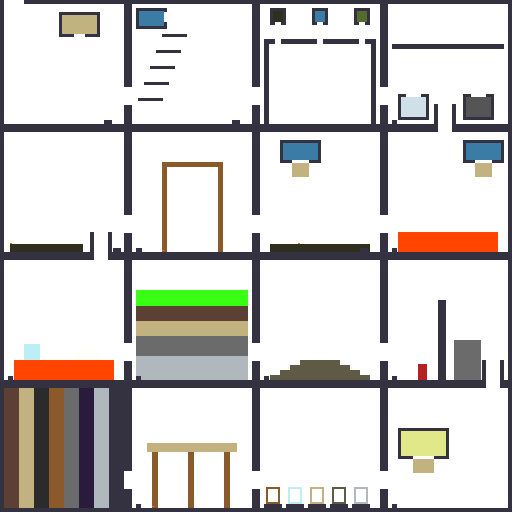
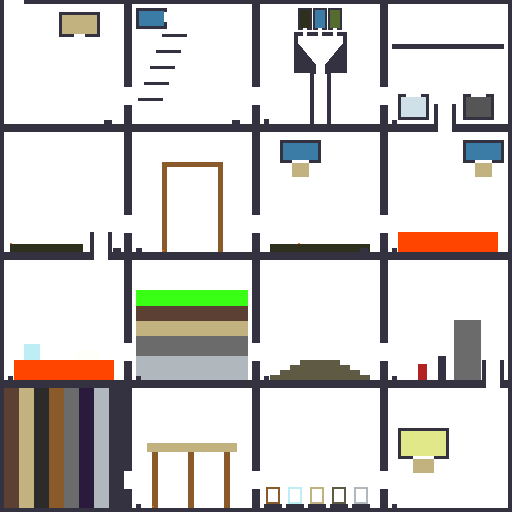
sandbox: a lighter liquid rises through a heavier one
A liquid only ever tried to sink, which is not enough to make two
liquids layer. The scan runs bottom up, so of a heavy cell resting on
a lighter one the cell below is stepped first, spreads sideways inside
its own pool, and marks itself moved. The heavy cell above is refused
for that tick and for every tick after it, because nothing about the
arrangement has changed.

Measured in the density room: oil, water and toxic sludge poured into
one tank held 27 heavy cells resting on lighter ones, unchanged from
tick 800 to tick 12000. With the rise rule the same count reaches zero
by tick 800 and the layers separate further.

Rise refuses a target of the same density, so a settled pool of one
liquid does not swap up and down for ever and its chunk still sleeps.

The reach of a blast is now its power rather than a quarter of it. A
ray spends at least 1 energy on every cell it crosses, so a blast of
power p can never reach further than p cells anyway, and the smaller
radius stopped rays that still had energy to spend: a block of tnt
cleared the air around itself and left a rock wall 32 cells away
untouched. One grain of gunpowder is a small pop now, and a pile is
many of them.

Three rooms of the gallery were built wrong and the pictures said so.
The blast shadow pillar was taller than the tnt, so it shadowed the
whole rock field and the room read as a blast that never went off. The
density tank was 101 cells wide, so each liquid landed under its own
[…]

Changed region(s): [[0.5, 0.0, 0.75, 0.25], [0.8438, 0.5625, 0.9375, 0.7188]]

diff --git a/tools/seed_gallery.py b/tools/seed_gallery.py
@@ -359,11 +359,43 @@ def build_room_3(cv):
     one tall tank and settle in three layers by density (checked
     against data/materials.txt: Oil 0.85, Water 1.0, Toxic_Sludge 1.4)."""
     r = Room(cv, 3)
-    r.box(4, 35, 115, 119, BEDROCK)
-    r.box(9, 40, 110, 119, AIR)  # the one tall tank all three chutes feed
-    for lx0, fill in ((10, "Oil"), (52, "Water"), (94, "Toxic_Sludge")):
-        r.tank(lx0, 4, lx0 + 15, 20, fill, hole_side="bottom", hole_lo=lx0 + 5, hole_hi=lx0 + 10)
-        r.box(lx0 + 5, 21, lx0 + 10, 39, AIR)  # the chute down to the tank, through its lid
+
+    # Three taps, a funnel, and one narrow column.
+    #
+    # A wide tank shows nothing. Each liquid lands under its own chute,
+    # spreads only as far as it has to, and settles as three puddles
+    # side by side that never meet. Bringing them into one tank is not
+    # enough either: the step swaps a heavy cell with a lighter one
+    # below it, and never with one beside it, so a wide tank settles
+    # with no cell resting on anything lighter and still reads as a
+    # diagonal smear rather than as layers. The column is 13 cells
+    # across, which is too narrow for a diagonal to fit in, so the only
+    # arrangement left is the right one.
+    # The funnel and the column go down first. A chute drawn before
+    # them is painted over by their walls, and every tap is then sealed
+    # by a room that still looks right in a picture of it at rest.
+    r.box(34, 28, 86, 68, BEDROCK)
+    r.box(38, 32, 82, 62, AIR)
+
+    # The funnel floor slopes. A flat one does not funnel: a liquid
+    # spreads sideways only where the ground falls away beside it or
+    # more liquid presses from above, so a pool sitting on a flat floor
+    # beside a hole has no reason to move towards it and simply stays
+    # at the side of the room. A slope gives it the reason.
+    for lx in range(38, 56):
+        r.box(lx, 40 + (lx - 38) * 22 // 18, lx, 67, BEDROCK)
+    for lx in range(65, 83):
+        r.box(lx, 40 + (82 - lx) * 22 // 18, lx, 67, BEDROCK)
+
+    r.box(50, 66, 70, 119, BEDROCK)
+    r.box(54, 70, 66, 119, AIR)
+    r.box(56, 62, 64, 70, AIR)      # the throat, down into the column
+
+    for lx0, fill in ((38, "Oil"), (53, "Water"), (68, "Toxic_Sludge")):
+        r.tank(lx0, 4, lx0 + 13, 25, fill, wall=2, hole_side="bottom",
+               hole_lo=lx0 + 5, hole_hi=lx0 + 8)
+        r.box(lx0 + 5, 26, lx0 + 8, 31, AIR)  # the chute into the funnel
+
     r.plinth(4, w=5, h=5)
 
 
@@ -459,11 +491,14 @@ def build_room_12(cv):
     field are kept clear of it."""
     r = Room(cv, 12)
     r.box(30, 104, 38, 119, "Tnt")
-    r.box(50, 40, 57, 119, BEDROCK)  # the pillar: floor to well above the tnt.
-    # Open air over the top of it (the room's own ceiling is 40 cells up
-    # from here), so the wizard can still fly across the room; a ray
-    # steep enough to clear it would already have spent its radius.
-    r.box(66, 80, 92, 119, "Rock")   # the field: half in the pillar's shadow, half not
+    # The pillar stands 24 cells, not the whole height of the room. A
+    # pillar taller than the tnt shadows the field completely, and a
+    # field that is wholly in shadow shows nothing: the room reads as a
+    # blast that did not go off. Rays that graze the top of this one
+    # reach the upper face of the field, so the shadow lands as a
+    # diagonal across it and the lit rock beside it is gone.
+    r.box(50, 96, 57, 119, BEDROCK)
+    r.box(66, 60, 92, 119, "Rock")
     r.plinth(4, w=5, h=4)
 
 

diff --git a/docs/physics.md b/docs/physics.md
@@ -18,7 +18,7 @@ behaviour the game is known for.
 | What Noita does | What we do |
 | --- | --- |
 | Powder falls and piles | Already done |
-| Liquid falls, pools, and layers by density | Already done |
+| Liquid falls, pools, and layers by density | Falling and pooling were done. Layering was not: see "The rise rule" below |
 | Gas climbs and gathers under a ceiling | Already done |
 | Fire spreads along fuel and leaves smoke | Already done |
 | Wood burns for a time, then becomes ash | Data only: `burns_to` a burning material with a `lifetime` and a `decays_to` |
@@ -46,9 +46,17 @@ reader knows the gap is a decision and not an oversight.
   is local to the damage that caused it. The rung that adds it is a
   flood fill from the anchored cells of a chunk, run only where a
   chunk was cut.
-- **No pressure.** A pool settles into one body and holds its shape,
-  but it can keep a slope. Noita does not equalise across a U bend
-  either, so this is a match with the reference and not a debt.
+- **No pressure, and no sideways exchange between liquids.** A pool
+  settles into one body and holds its shape, but it can keep a slope.
+  Noita does not equalise across a U bend either, so that part is a
+  match with the reference and not a debt. The second half is a real
+  limit: a liquid swaps with a lighter one below it and never with one
+  beside it, so two liquids poured into a wide tank settle with no
+  cell resting on anything lighter and still read as a diagonal smear
+  rather than as layers. The density room is a narrow column for that
+  reason. The rung that would lift it is a sideways swap gated on
+  density, which has to be written so that a settled pool of one
+  liquid does not jitter for ever.
 - **No temperature field.** A number per cell for heat would cost as
   much memory as the cells and buy behaviour that the reaction table
   already gives. Fire, melting, freezing and boiling are all pairs of
@@ -92,7 +100,7 @@ room shows.
 | `Ice` | Solid | 0.92 | 2 | melts near heat |
 | `Snow` | Powder | 0.4 | 1 | melts faster |
 | `Obsidian` | Solid | 2.6 | 9 | what water leaves in lava |
-| `Gunpowder` | Powder | 1.7 | 1 | a pile that goes off |
+| `Gunpowder` | Powder | 1.7 | 1 | one grain pops, and a pile is many of them |
 | `Tnt` | Solid | 1.6 | 2 | a block that goes off harder |
 | `Gravel` | Powder | 2.2 | 2 | what blasted rock falls as |
 | `Flammable_Gas` | Gas | 0.15 | 0 | a pocket that lights all at once |
@@ -200,6 +208,35 @@ This is rung two of the ladder: the mechanism is already in the step,
 and burning wood is a use of it. Coal is the same shape with a longer
 lifetime.
 
+## The rise rule
+
+A liquid only ever tried to sink. That is not enough to make two
+liquids layer, and the reason is the scan order.
+
+The scan runs from the bottom row up, so of a heavy cell resting on a
+lighter one, the lighter cell below is always stepped first. It
+spreads sideways within its own pool, marks itself moved, and the
+heavy cell above is then refused for the whole of that tick. It is
+refused again on the next tick, and every tick after it, because
+nothing about the arrangement has changed.
+
+Measured: oil, water and toxic sludge poured into one tank settled
+part of the way and then held **27 heavy cells resting on lighter
+ones, unchanged from tick 800 to tick 12000**.
+
+So a liquid now also rises. A liquid whose upstairs neighbour is a
+denser liquid changes places with it, which is the rule gases already
+have. The same measurement then reaches **zero** by tick 800, and the
+three layers separate further than they ever did.
+
+Two things make the rule safe:
+
+- `Rise` refuses a target of the same density, so a settled pool of
+  one liquid does not swap up and down for ever, and its chunk still
+  goes back to sleep.
+- After the swap the pair is in the order it wanted, so it does not
+  swap back.
+
 ## Explosions
 
 ```odin
@@ -231,7 +268,15 @@ A `power` of 64 crosses 64 cells of air or 7 cells of rock.
 **A material with `explosive` above zero detonates instead of
 burning.** When `sandbox_ignite` or `sandbox_spread_fire` reaches such
 a cell, the cell becomes Air and a blast starts there with
-`power = explosive` and `radius = explosive / 4`. A pile of gunpowder
+`power = explosive` and `radius = explosive`.
+
+The reach is the power, and not a fraction of it. A ray spends at
+least 1 energy on every cell it crosses, so a blast of power p can
+never reach further than p cells, even through open air. A smaller
+radius stops rays that still have energy to spend, and the crater then
+ends at a circle the material did nothing to earn. It showed as a
+block of tnt that cleared the air around itself and left a rock wall
+32 cells away untouched. A pile of gunpowder
 therefore goes off grain by grain, each grain lighting the next,
 which is the chain a pile should have.
 
